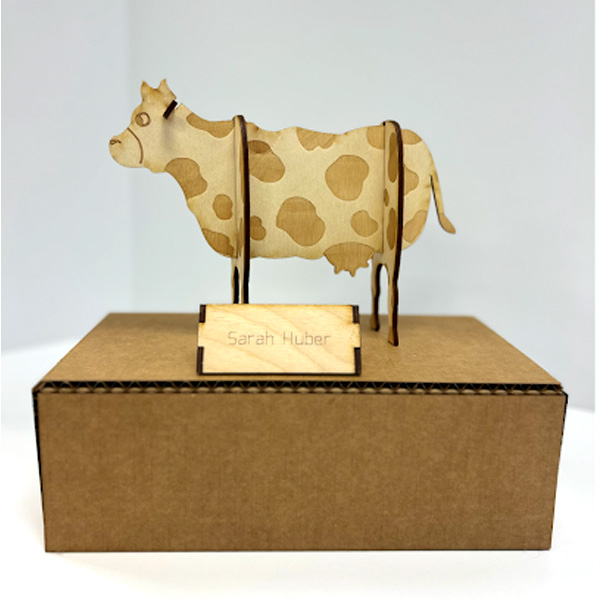
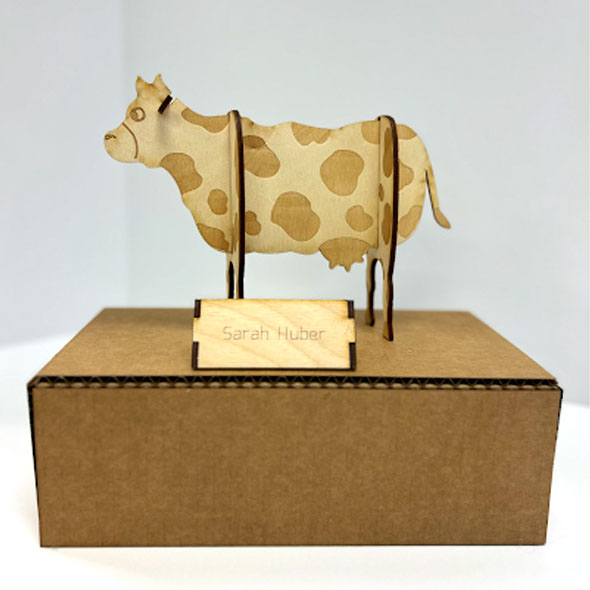
updates

diff --git a/index.html b/index.html
@@ -26,20 +26,21 @@
         <td> 
         <h3>LOGO</h3>
         <a href = "Logo/LogoReflection.html">
-        <img src = "Logo/logo.jpg" wideth = 70% > </a>
+        <img src = "Logo/logo.jpg" width = 70% > </a>
         
+        </td>
+        <td>
+        
+        <h3>SLOT ANIMAL</h3>
+        <a href = "SlotAnimal/SlotAnimalReflection.html">
+        <img src = 'SlotAnimal/cow.jpg' width = 70% > 
+         </a>
         </td>
         <td>
         
         <h3>LOGO</h3>
         <a href = "Logo/LogoReflection.html">
-        <img src = "Logo/logo.jpg" wideth = 70% > </a>
-        </td>
-        <td>
-        
-        <h3>LOGO</h3>
-        <a href = "Logo/LogoReflection.html">
-        <img src = "Logo/logo.jpg" wideth = 70% > </a>
+        <img src = "Logo/logo.jpg" width = 70% > </a>
         </td>
       </tr>
 

diff --git a/Logo/LogoReflection.html b/Logo/LogoReflection.html
@@ -1,7 +1,11 @@
 <!DOCTYPE html>
 
 <head>
-
+	<script> src="../p5.js"></script>
+	<script> src="../p5.sound.min.js"></script>
+	<link rel="stylesheet" type="text/css" href="../style.css">
+	
+	
     <style>
 
         iframe {
@@ -19,7 +23,8 @@
 </head>
 
 <body>
-
+	<script src="../sketch.js"></script>
+<a href = "../index.html"><h2>HOME</h2></a>
 
 
 

diff --git a/Candyland/CandyLandReflection.html b/Candyland/CandyLandReflection.html
@@ -1,7 +1,11 @@
 <!DOCTYPE html>
 
 <head>
-
+	<script> src="../p5.js"></script>
+	<script> src="../p5.sound.min.js"></script>
+	<link rel="stylesheet" type="text/css" href="../style.css">
+	
+	
     <style>
 
         iframe {
@@ -19,6 +23,8 @@
 </head>
 
 <body>
+	<script src="../sketch.js"></script>
+<a href = "../index.html"><h2>HOME</h2></a>
 
 
 
